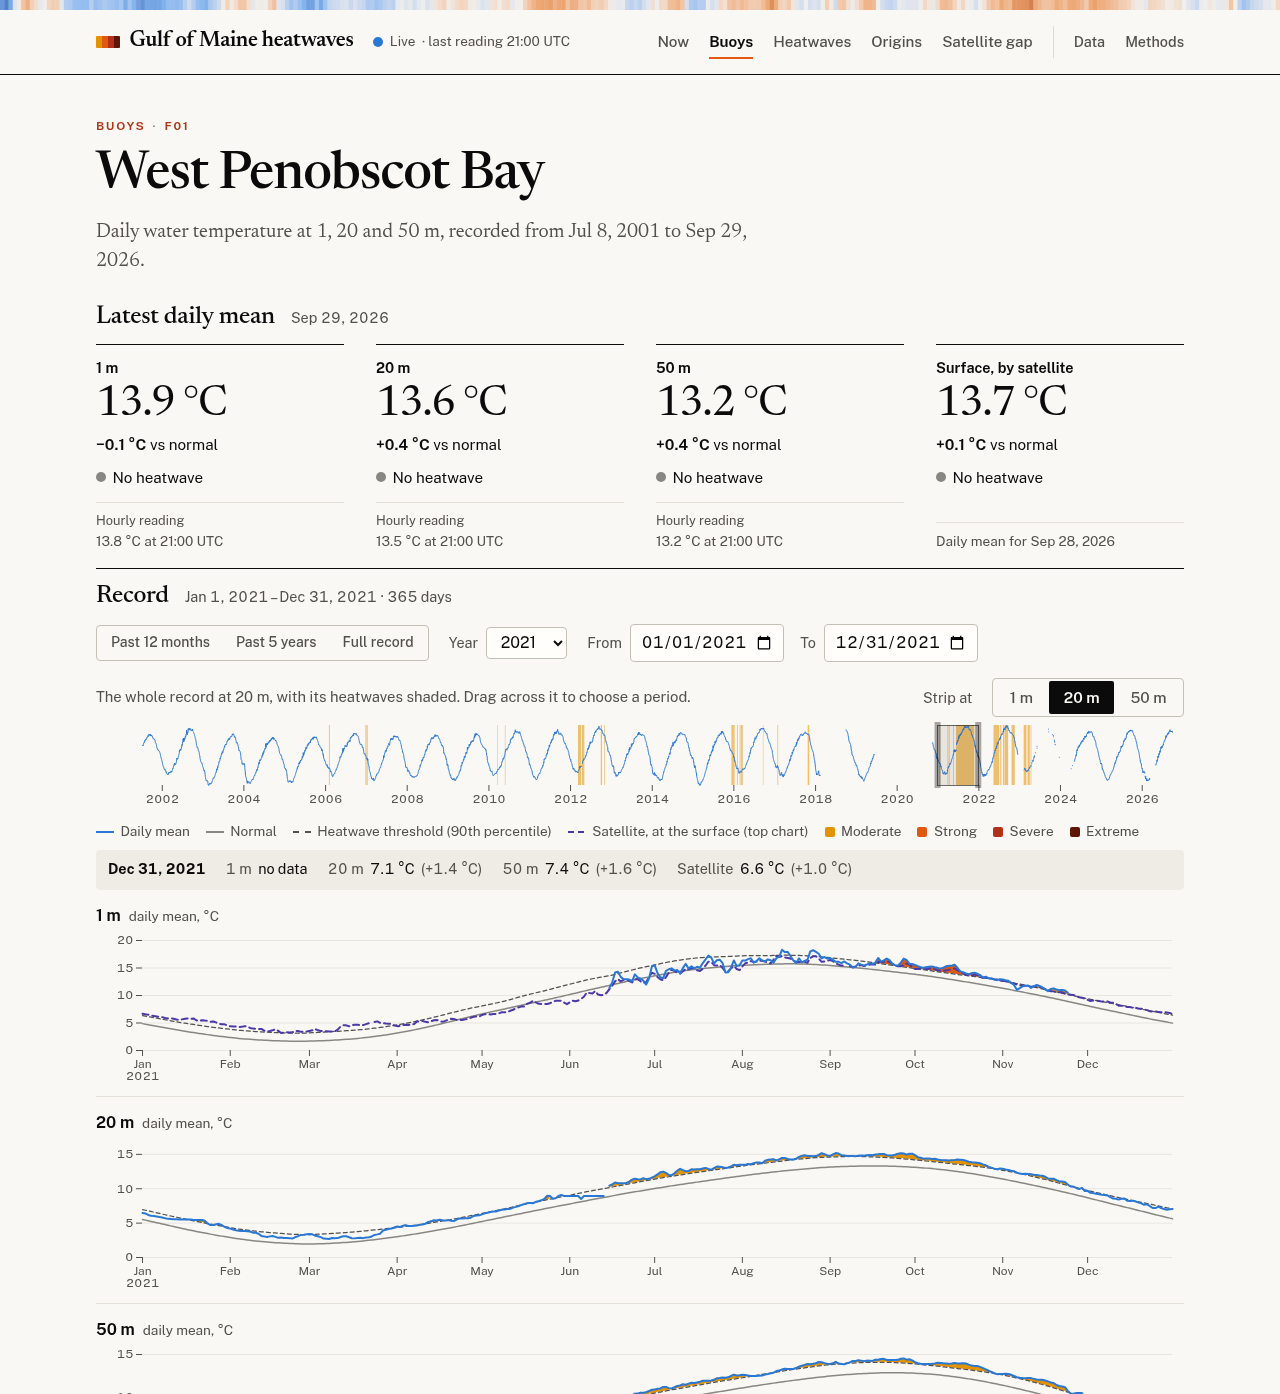
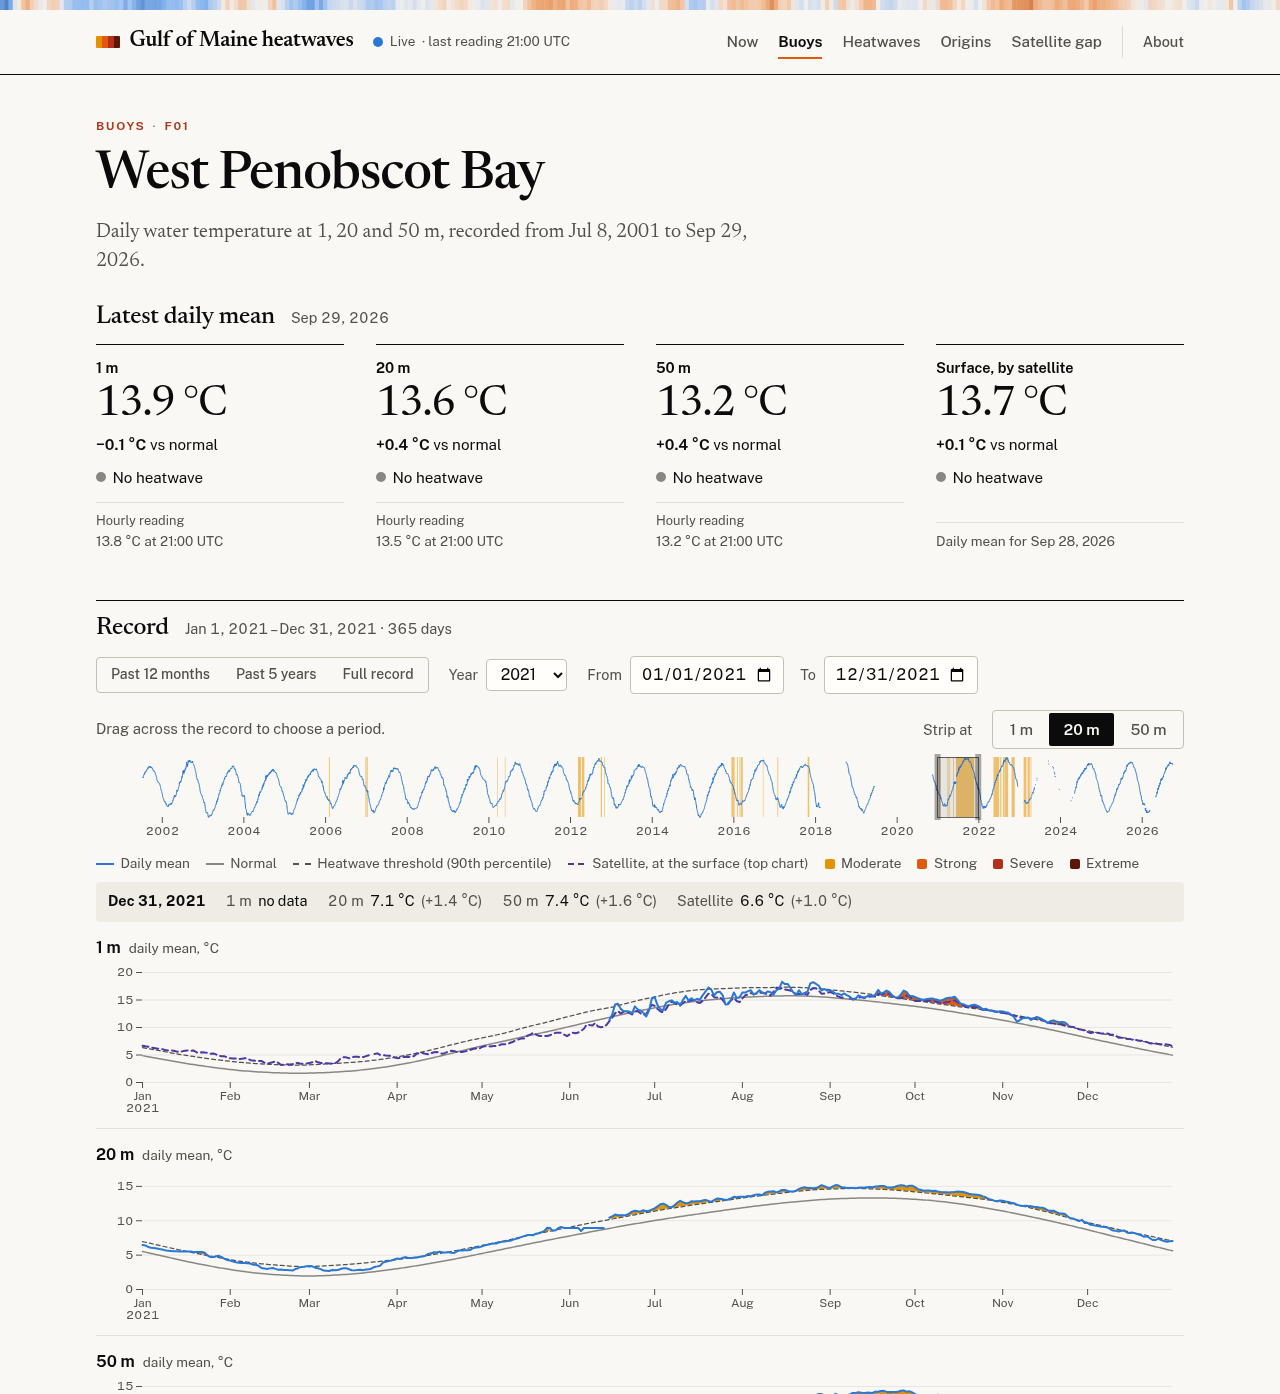
Trim the copy
Cut what the page already says another way: instructions the controls make
obvious ("Choose a buoy for its record", "Hover to read every depth"),
captions that repeat a chart's title or legend, the heatwave page's opening
sentence that restated its figures, and method details the About page
covers. Leads are down to what a reader needs first. The tiles on a buoy's,
a heatwave's and the satellite page get the same room below them as a
section.

diff --git a/frontend/src/pages/EventPage.tsx b/frontend/src/pages/EventPage.tsx
@@ -38,7 +38,6 @@ export function EventPage() {
   const buoy = buoys.data?.find((b) => b.id === detail.buoy_id);
   const buoyEvents = events.data?.filter((e) => e.buoy_id === detail.buoy_id) ?? [];
   const period = eventRange(detail);
-  const kind = detail.category_name.toLowerCase();
   return (
     <>
       <section className="intro">
@@ -52,22 +51,16 @@ export function EventPage() {
         <h1>
           {buoy?.name ?? detail.buoy_id}, {detail.depth} m
         </h1>
-        <p className="lead">
-          {/^[aeiou]/.test(kind) ? "An" : "A"} {kind} heatwave from {formatDate(detail.start_date)} to{" "}
-          {formatDate(detail.end_date)}, peaking {formatSigned(detail.max_intensity)} above normal on{" "}
-          {formatDate(detail.peak_date)}. <Link to={heatwavePeriodPath(detail)}>See it on {detail.buoy_id}'s record</Link>
-          .
-        </p>
         <div className="event-labels">
           <CategoryLabel category={detail.category} />
           {detail.origin ? (
             <OriginLabel origin={detail.origin} />
           ) : (
             <span className="muted">
-              No origin label: only heatwaves at {rules.data.depths.join(" and ")} m get one.{" "}
-              <Link to="/about#origin">Why</Link>
+              Origins are labeled at {rules.data.depths.join(" and ")} m only. <Link to="/about#origin">Why</Link>
             </span>
           )}
+          <Link to={heatwavePeriodPath(detail)}>See it on {detail.buoy_id}'s record</Link>
         </div>
       </section>
 
@@ -76,10 +69,6 @@ export function EventPage() {
       {buoy && (
         <section className="card">
           <h2>Through the heatwave, at every depth</h2>
-          <p className="caption">
-            {detail.buoy_id}'s daily temperature from {formatDate(period.from)} to {formatDate(period.to)}, against the
-            normal and the heatwave threshold, with heatwaves shaded by category. Hover to read every depth on a day.
-          </p>
           <SeriesLegend buoy={buoy} />
           <DepthCharts buoy={buoy} from={period.from} to={period.to} events={buoyEvents} />
         </section>
@@ -130,8 +119,7 @@ function OriginCard({ detail, rules, buoys }: CardProps & { buoys: Buoy[] }) {
         <OriginLabel origin={detail.origin!} />
       </div>
       <p className="caption">
-        {verdict(detail.origin!, evidence.votes, rules.margin)} Each signal is read from {rules.before} days before the
-        onset to {rules.after} after; the dotted line marks the onset.
+        {verdict(detail.origin!, evidence.votes, rules.margin)} The dotted line marks the onset.
       </p>
       <div className="signals">
         {SIGNALS.map(({ key, name }) => (
@@ -409,9 +397,8 @@ function TSCard({ detail, rules }: CardProps) {
     <section className="card">
       <h2>Temperature and salinity at {detail.depth} m</h2>
       <p className="caption">
-        Each dot is a day, from {rules.before} days before the onset to {rules.after} after. Water arriving from
-        offshore moves the dots warmer and saltier; heat mixed down from the surface moves them warmer without the
-        salt. The dashed line is the normal for the same days.
+        Each dot is a day around the onset. Water from offshore moves the dots warmer and saltier; heat mixed down
+        from the surface, warmer only. The dashed line is the normal.
       </p>
       <Chart
         className="chart"

diff --git a/frontend/src/pages/OriginsPage.tsx b/frontend/src/pages/OriginsPage.tsx
@@ -53,10 +53,9 @@ export function OriginsPage() {
         <p className="kicker">Origins</p>
         <h1>Where the heat came from</h1>
         <p className="lead">
-          Heat reaches 20 and 50 m in the Gulf of Maine in two ways. Warm, salty slope water enters through the
-          Northeast Channel and spreads west along the bottom; or heat taken up at the surface is mixed down, by wind or
-          the autumn overturn. Five signals tell them apart for each heatwave, and plain rules turn them into a label,
-          or into Unclear when they disagree. <Link to="/about#origin">How the labels are made</Link>.
+          Heat reaches 20 and 50 m in two ways: warm, salty slope water flowing in through the Northeast Channel, or
+          surface heat mixed down by wind or the autumn overturn. Five signals label each heatwave, or leave it Unclear
+          when they disagree. <Link to="/about#origin">How the labels are made</Link>.
         </p>
       </section>
 
@@ -65,8 +64,7 @@ export function OriginsPage() {
           Heatwaves at <InlineSelect {...depthChoice} /> each year, by origin
         </h2>
         <p className="caption">
-          By the year each began. Unclear is kept in view: it is where the signals disagree or the data are too thin.
-          Click a year to see its heatwaves below.
+          By the year each began. Click a year to see it below.
         </p>
         {events.isError ? (
           <p className="note">Couldn't load the heatwaves.</p>
@@ -86,11 +84,7 @@ export function OriginsPage() {
           />
         </h2>
         <p className="caption">
-          Each buoy's year, top to bottom in the order slope water reaches them: in through the Northeast Channel, then
-          west along the coast to Massachusetts Bay. Bars are heatwaves, colored by where their heat came from, under a
-          strip of the temperature against normal. Heat from offshore should reach the eastern buoys first, but
-          neighboring buoys mostly warm and cool together, so that order is one clue among five. Click a heatwave for its
-          evidence, or{" "}
+          Buoys from east to west, in the order slope water reaches them. Click a heatwave for its evidence, or{" "}
           <Link to={`/events?depth=${depth}&year=${year}`}>list them all</Link>.
         </p>
         {buoys.data ? (

diff --git a/frontend/src/pages/SatellitePage.tsx b/frontend/src/pages/SatellitePage.tsx
@@ -37,9 +37,8 @@ export function SatellitePage() {
         <h1>What the satellite misses</h1>
         <p className="lead">
           Most heatwave monitoring in the Gulf of Maine uses satellite sea surface temperature, which sees only the top
-          millimeters of the water. Each buoy here is compared with NOAA's OISST, the satellite record behind GMRI's
-          Gulf of Maine temperature reports, in the nearest grid cell: on the days a buoy logged a heatwave, did the
-          satellite show one at the surface above? <Link to="/about#satellite">How the comparison is made</Link>.
+          millimeters of water. On the days a buoy logged a heatwave, did the satellite show one at the surface above?{" "}
+          <Link to="/about#satellite">How the comparison is made</Link>.
         </p>
       </section>
 
@@ -71,10 +70,6 @@ export function SatellitePage() {
 
           <section className="card">
             <h2>Heatwave days at 20 and 50 m, every buoy together</h2>
-            <p className="caption">
-              Each year's heatwave days at depth, summed over the buoys and split by whether the satellite record also
-              showed a heatwave at the surface above. Only days with data from both count.
-            </p>
             <SatelliteMisses />
           </section>
 
@@ -82,7 +77,7 @@ export function SatellitePage() {
             <section className="card">
               <h2>At each buoy</h2>
               <p className="caption">
-                The share of each buoy's heatwave days with no satellite heatwave above. Choose a buoy for its record.
+                The share of heatwave days with no satellite heatwave above.
               </p>
               <div className="table-scroll">
                 <table className="shares">

diff --git a/frontend/src/pages/EventsPage.tsx b/frontend/src/pages/EventsPage.tsx
@@ -84,8 +84,7 @@ export function EventsPage() {
         <p className="kicker">Heatwaves</p>
         <h1>Every heatwave on record</h1>
         <p className="lead">
-          All {events.data.length} marine heatwaves detected at the {buoyCount} buoys since 2001. See which years were
-          worst, filter and sort them, then open one to see where its heat came from.
+          All {events.data.length} marine heatwaves detected at the {buoyCount} buoys since 2001.
         </p>
       </section>
 
@@ -175,9 +174,8 @@ export function EventsPage() {
         <section className="card">
           <h2>Heatwave days per year {filters.depth === null ? "at any depth" : `at ${filters.depth} m`}</h2>
           <p className="caption">
-            Days inside a heatwave that matches the filters above, by buoy and year
-            {filters.depth === null && "; a day with heatwaves at several depths counts once"}. Click a cell to list
-            its heatwaves below.
+            {filters.depth === null && "A day with heatwaves at several depths counts once. "}Click a cell to list its
+            heatwaves.
           </p>
           <AnnualHeatmap
             buoys={buoys.data}
@@ -194,7 +192,6 @@ export function EventsPage() {
       <section className="card">
         <p className="caption" aria-live="polite">
           {matching.length} heatwave{matching.length === 1 ? "" : "s"}, {totalDays.toLocaleString()} days in all.
-          Intensity is degrees above the normal for that day. Only heatwaves at 20 and 50 m get an origin.
           {filteredBuoy && (
             <>
               {" "}

diff --git a/frontend/src/styles.css b/frontend/src/styles.css
@@ -229,7 +229,7 @@ td .swatch { position: relative; top: 1px; }
 /* --- A buoy's page --- */
 .detail-head { display: flex; flex-wrap: wrap; align-items: baseline; gap: 0.5rem 1rem; margin-bottom: 0.75rem; }
 .detail-head h2 { margin: 0; }
-.latest { margin-bottom: 1rem; }
+.latest { margin-bottom: 3rem; }
 
 .tiles { display: grid; grid-template-columns: repeat(auto-fit, minmax(170px, 1fr)); gap: 1.5rem 2rem; }
 .tile { display: flex; flex-direction: column; gap: 0.2rem; border-top: 1px solid var(--rule); padding: 0.7rem 0 0; }
@@ -245,11 +245,11 @@ td .swatch { position: relative; top: 1px; }
 .tile-foot { display: grid; gap: 0.35rem; margin-top: auto; padding-top: 0.5rem; border-top: 1px solid var(--grid); color: var(--ink-2); font-size: 0.85rem; }
 .tile-foot-label { display: block; font-size: 0.8rem; }
 /* A heatwave's figures: the category's swatch sized to its name. */
-.figures { margin-bottom: 1rem; }
+.figures { margin-bottom: 3rem; }
 .figures .tile-value { display: flex; align-items: center; gap: 0.5rem; }
 .figures .tile-value .swatch { width: 0.55em; height: 0.55em; }
 /* The satellite page's figures. */
-.stats { margin-bottom: 1rem; }
+.stats { margin-bottom: 3rem; }
 .stats .tile-value { font-size: 3.4rem; }
 @media (max-width: 640px) {
   .tiles { grid-template-columns: 1fr; }

diff --git a/frontend/src/pages/BuoyPage.tsx b/frontend/src/pages/BuoyPage.tsx
@@ -89,8 +89,8 @@ export function BuoyPage() {
         <section className="card">
           <h2>What the satellite misses here</h2>
           <p className="caption">
-            Heatwave days at 20 and 50 m each year, split by whether the satellite record also showed a heatwave at the
-            surface above. Only days with data from both count. <Link to="/satellite">Across every buoy</Link>.
+            Heatwave days at depth each year, by whether the satellite saw one at the surface.{" "}
+            <Link to="/satellite">Across every buoy</Link>.
           </p>
           <SatelliteMisses buoy={buoy.id} />
         </section>
@@ -244,7 +244,7 @@ function Record({ buoy, events, depth, firstDate, lastDate, from, to, onDepth, o
 
       <div className="range-head">
         <p className="caption">
-          The whole record at {depth} m, with its heatwaves shaded. Drag across it to choose a period.
+          Drag across the record to choose a period.
         </p>
         {buoy.series.length > 1 && (
           <div className="filters" role="group" aria-label="Depth of the record strip">

diff --git a/frontend/src/pages/NowPage.tsx b/frontend/src/pages/NowPage.tsx
@@ -28,9 +28,8 @@ export function NowPage() {
         <p className="kicker">Live from the buoys</p>
         <h1>Marine heatwaves below the surface of the Gulf of Maine</h1>
         <p className="lead">
-          The latest daily water temperature at 1, 20 and 50 meters on the University of Maine's buoys, against each
-          spot's 2003–2022 normal. A marine heatwave is five or more days warmer than the 90th percentile for the time
-          of year. Updated every 10 minutes from NERACOOS.
+          Daily water temperature at 1, 20 and 50 meters on the University of Maine's buoys, against each spot's
+          2003–2022 normal. A marine heatwave is five or more days above the 90th percentile for the time of year.
         </p>
         <StripesFigure />
       </section>

diff --git a/frontend/src/components/Stripes.tsx b/frontend/src/components/Stripes.tsx
@@ -74,8 +74,8 @@ export function StripesFigure() {
             : top && `Warmest month: ${formatMonth(top.month)}, ${formatSigned(top.anomaly)}`}
         </span>
         <span>
-          The Gulf at {STRIPES_DEPTH} m since {first}, a month to a stripe: how far the buoys' water was from its
-          2003–2022 normal, <span className="cool">cooler</span> or <span className="warm">warmer</span>, on average.
+          The Gulf at {STRIPES_DEPTH} m since {first}, a month to a stripe: <span className="cool">cooler</span> or{" "}
+          <span className="warm">warmer</span> than normal.
         </span>
       </figcaption>
     </figure>

diff --git a/frontend/src/components/EventContext.tsx b/frontend/src/components/EventContext.tsx
@@ -48,7 +48,7 @@ export function EventFigures({ event, events }: { event: HeatwaveEvent; events: 
       <div className="tile">
         <p className="tile-label">Mean</p>
         <p className="tile-value">{formatSigned(event.mean_intensity)}</p>
-        <p className="tile-line">above normal over its {event.duration} days</p>
+        <p className="tile-line">above normal on average</p>
         {rank("mean_intensity", "highest")}
       </div>
       <div className="tile">

diff --git a/frontend/src/pages/BuoysPage.tsx b/frontend/src/pages/BuoysPage.tsx
@@ -27,8 +27,7 @@ export function BuoysPage() {
         <p className="kicker">University of Maine moorings</p>
         <h1>The buoys</h1>
         <p className="lead">
-          Every University of Maine buoy this site follows, including those no longer reporting, kept for their
-          history. Choose one for its whole record and every heatwave in it.
+          Every buoy the site follows, including the retired ones.
         </p>
       </section>
 
